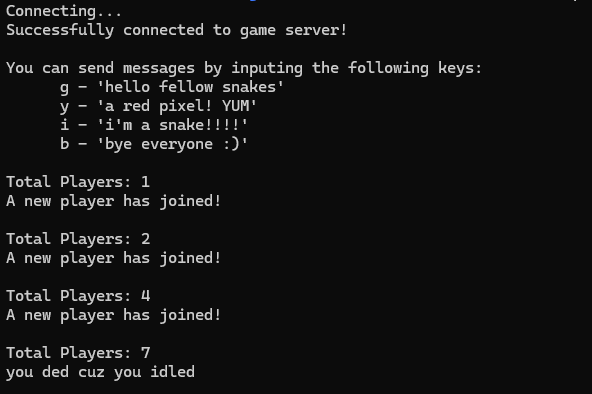
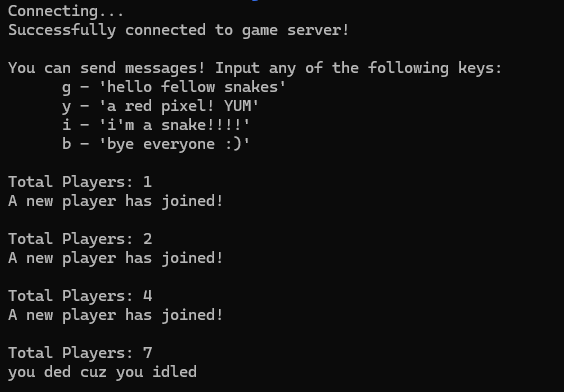
Updating images and server output

diff --git a/client.js b/client.js
@@ -26,7 +26,7 @@ const connect = function() {
   // Display connection messages
   conn.on('connect', () => {
     console.log("Successfully connected to game server!\n");
-    console.log(`You can send messages by inputing the following keys:
+    console.log(`You can send messages! Input any of the following keys:
       g - '${MESSAGES['g'].slice(5)}'
       y - '${MESSAGES['y'].slice(5)}'
       i - '${MESSAGES['i'].slice(5)}'
